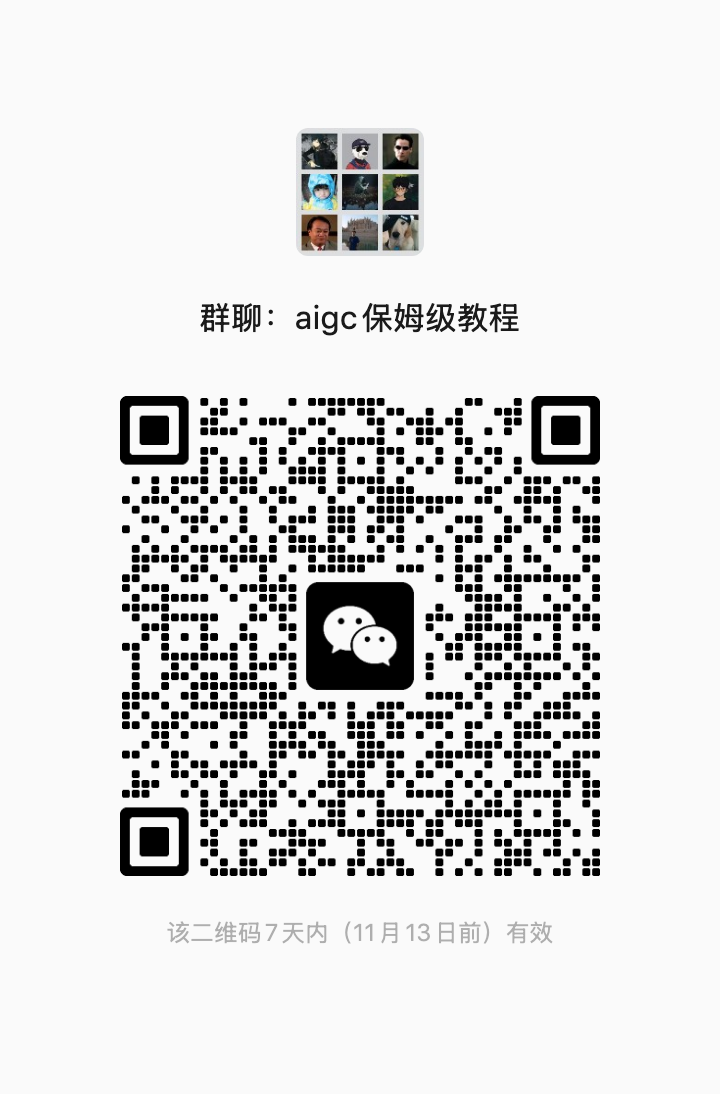
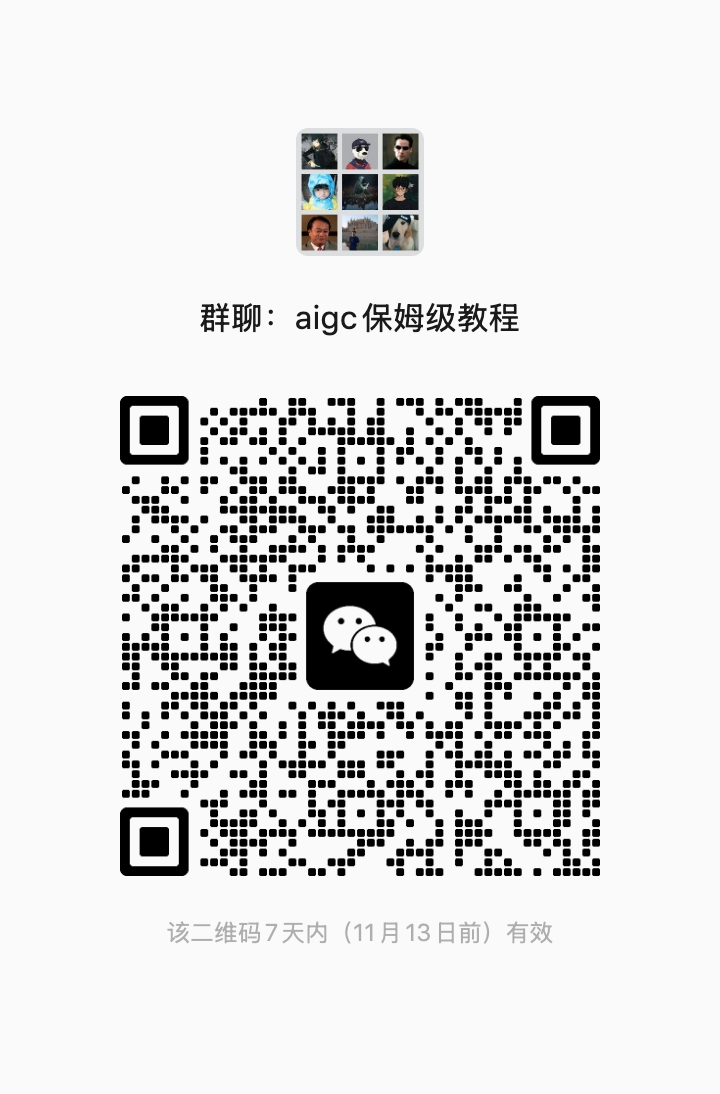
Use versioned November 13 WeChat invitation image in README

Changed region(s): [[0.1528, 0.3419, 0.8556, 0.808]]

diff --git a/README.md b/README.md
@@ -26,7 +26,7 @@ This desktop preview plans from metadata, without analyzing video frames or audi
 
 Run into any issues? Scan the QR code to join our WeChat group. We really need your suggestions and feedback!
 
-<img src="docs/images/wechat-feedback-qr.png" alt="WeChat group QR code" width="280" />
+<img src="docs/images/wechat-feedback-qr-2026-11-13.png" alt="WeChat group QR code" width="280" />
 
 ## Responsible use of deep synthesis
 
